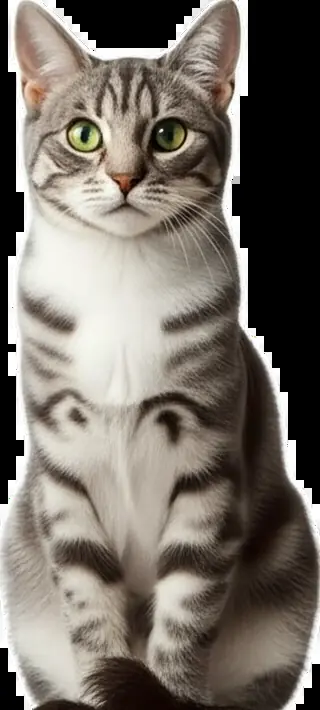
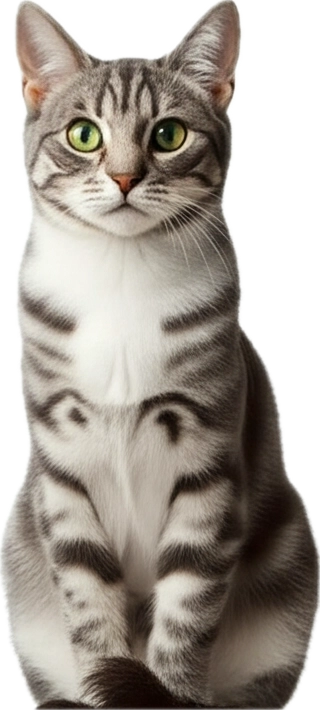
fix: Ajusta imagem da hero e README

Changed region(s): [[0.1562, 0.0, 1.0, 0.8986], [0.0, 0.0, 0.0938, 0.7127], [0.0, 0.8986, 1.0, 1.0]]

diff --git a/README.md b/README.md
@@ -58,6 +58,10 @@ README.md     → Documentação do projeto
 
 ---
 
+## Documentação
+- [CHANGELOG](./CHANGELOG.md) — histórico completo de mudanças
+---
+
 ## 🚀 Deploy
 O projeto está publicado em **Netlify**.
 🔗 **Demo online**: (https://catbytes.netlify.app/)
